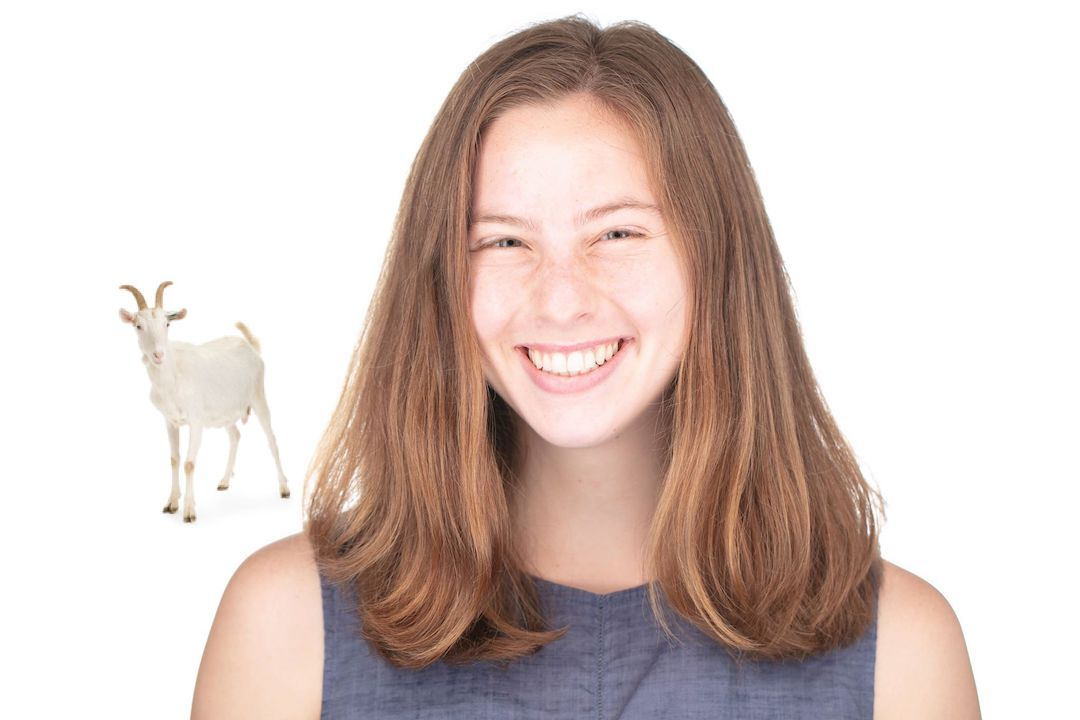
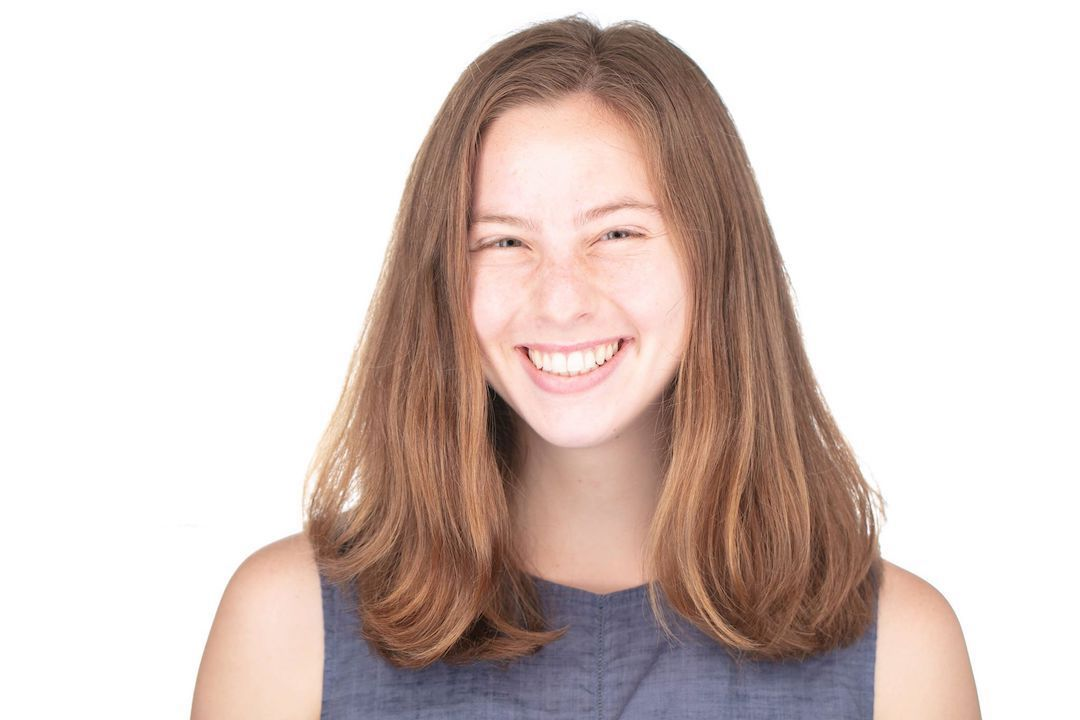
Updated goat joke

Changed region(s): [[0.0917, 0.3972, 0.275, 0.7333]]

diff --git a/index.html b/index.html
@@ -74,14 +74,11 @@
             <h2 class="post-title">
               Who am I?
             </h2>
-            <p class="post-subtitle">
-              I am the GOAT. If you <a href="https://www.google.com/search?q=bianca+capretta&source=lnms&tbm=isch&sa=X&sqi=2&ved=0ahUKEwjNlvysoNrcAhVEFJAKHRbkAroQ_AUICigB&biw=1296&bih=723" target="_blank">google</a> my full name, you will mainly experience a plethora of baby white goats. I kid you not, this is real (pun intended)!
-            </p>
 
             <img class="img-fluid" src="img/headshot.jpg" alt="">
 
             <p class="post-subtitle">
-              But actually, I am a rising Senior at Tufts University from Mill Valley, CA. I major in Computer Science and Cognitive & Brain Sciences with a minor in Music.
+              I am a rising Senior at Tufts University from Mill Valley, CA. I major in Computer Science and Cognitive & Brain Sciences with a minor in Music.
             </p>
           </div>
           <hr>
@@ -122,6 +119,15 @@
           <hr>
           <!-- ==============================================================-->
           <div class="post-preview">
+            <h2 class="post-title">Fun Fact</h2>
+          
+            <p class="post-subtitle">
+              My name directly translates to "white baby goat" in Italian. If you <a href="https://www.google.com/search?q=bianca+capretta&source=lnms&tbm=isch&sa=X&sqi=2&ved=0ahUKEwjNlvysoNrcAhVEFJAKHRbkAroQ_AUICigB&biw=1296&bih=723" target="_blank">google</a> my full name and click on Pictures, you will mainly experience a plethora of white goats. I kid you not (pun intended)!
+            </p>
+          </div>
+          <hr>
+          <!-- ==============================================================-->
+          <div class="post-preview">
             <h2 class="post-title">
               I love making puns and jokes.
             </h2>
@@ -129,6 +135,7 @@
               Why is everyone into velcro shoes?! Don't they know its a rip off?
             </p>
           </div>
+
         </div>
       </div>
     </div>
